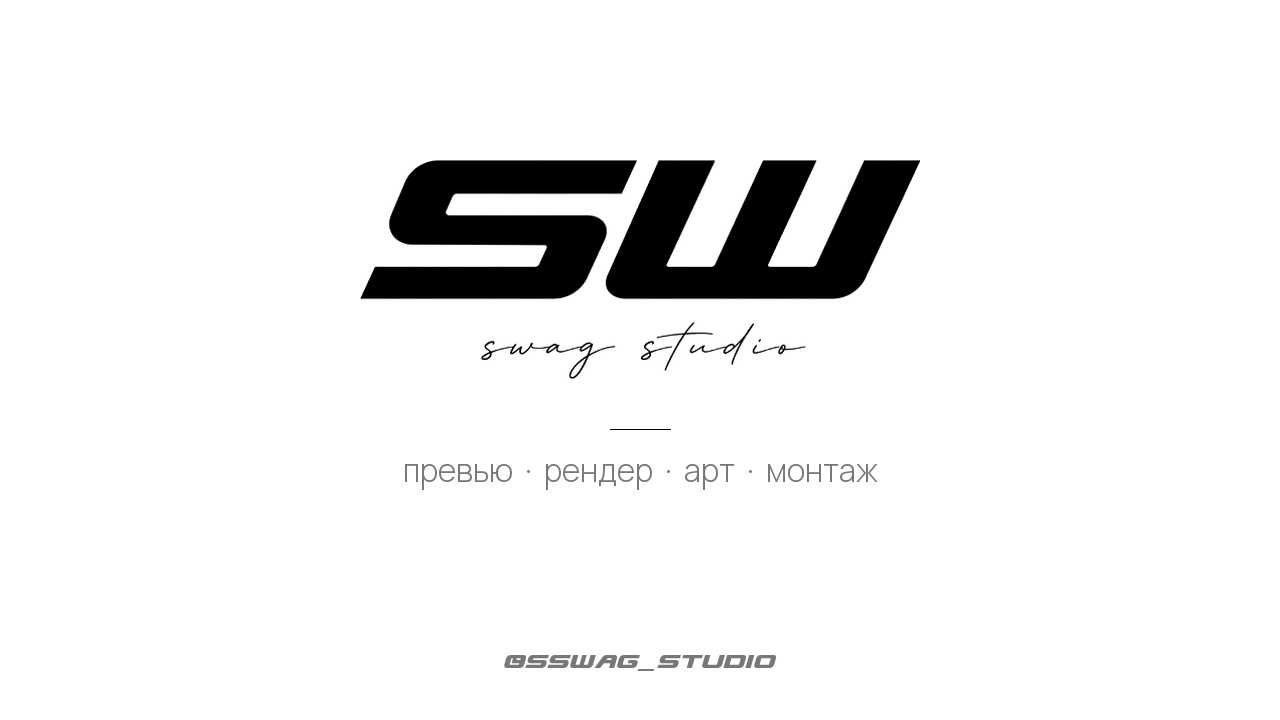
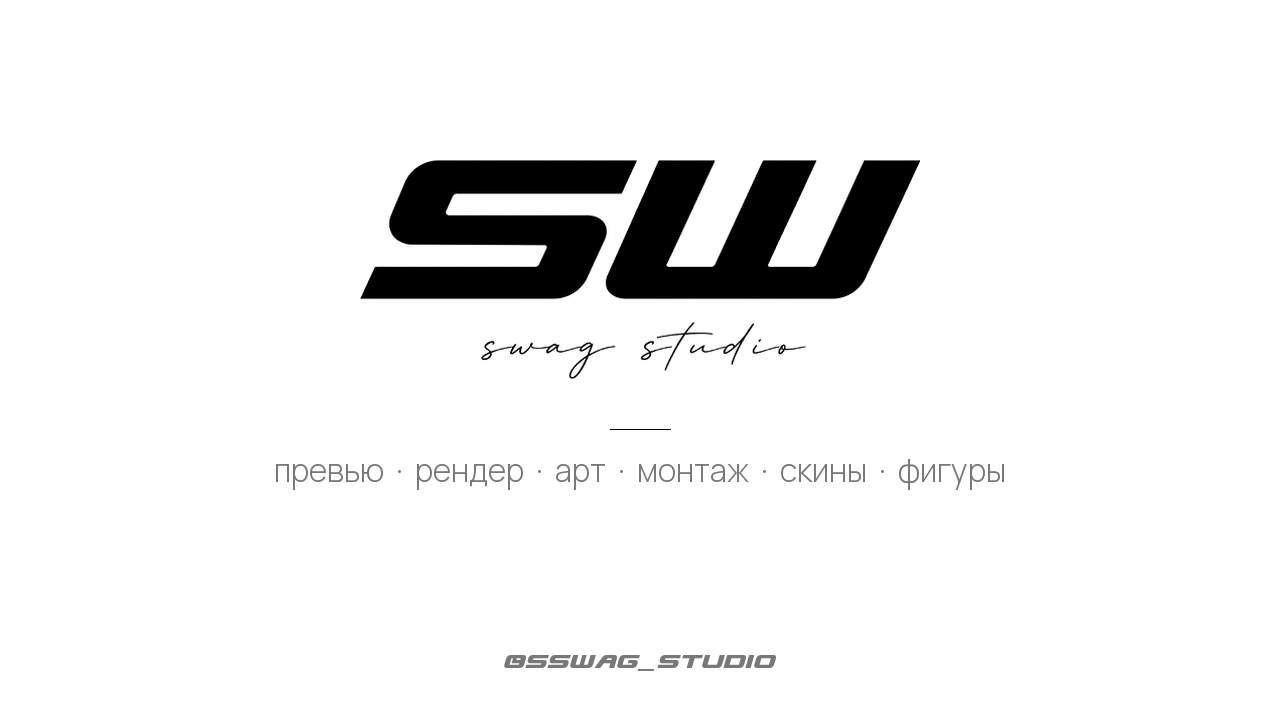
Новые услуги: «Скин» и «Фигура (Figure Mod)»
- кнопки «👕 Скин» и «🗿 Фигура (Figure Mod)» в первом шаге заказа
- описание обеих услуг в разделе «Услуги и цены» и в приветствии
- на главной картинке добавлены «скины · фигуры»

Changed region(s): [[0.2188, 0.6417, 0.7812, 0.6722]]

diff --git a/app/texts.py b/app/texts.py
@@ -6,7 +6,7 @@ from app.keyboards import SERVICES
 
 WELCOME = (
     "<b>Йоу, {name}! Это SWAG Studio</b> 💋\n\n"
-    "Студия дизайна, где ты получишь <b>превью, рендер, арт или монтаж</b> — "
+    "Студия дизайна, где ты получишь <b>превью, рендер, арт, монтаж, скин или фигуру</b> — "
     "быстро, качественно и за адекватную цену.\n\n"
     "Жми <b>«Сделать заказ»</b> — заполнишь короткую анкету, и мы свяжемся с тобой."
 )
@@ -17,6 +17,8 @@ SERVICES_TEXT = (
     "🧊 <b>Рендер</b> — 3D-сцены, персонажи, предметы\n"
     "🎨 <b>Арт</b> — аватарки, баннеры, иллюстрации, оформление каналов\n"
     "🎬 <b>Монтаж</b> — ролики, шортсы, клипы, эдиты\n"
+    "👕 <b>Скин</b> — скин для персонажа по твоей идее или референсу\n"
+    "🗿 <b>Фигура</b> — 3D-модель персонажа для Figure Mod\n"
     "✨ <b>Другое</b> — расскажи идею, придумаем\n\n"
     "💰 Стоимость зависит от сложности и сроков — точную цену назовёт менеджер "
     "после того, как посмотрит заказ."

diff --git a/generate_images.py b/generate_images.py
@@ -26,7 +26,7 @@ WATERMARK = (246, 246, 246)
 
 # key: (заголовок, подзаголовок, шаг заказа или None)
 SCREENS = {
-    "welcome": (None, "превью  ·  рендер  ·  арт  ·  монтаж", None),
+    "welcome": (None, "превью  ·  рендер  ·  арт  ·  монтаж  ·  скины  ·  фигуры", None),
     "services": ("УСЛУГИ", "что мы делаем", None),
     "order_service": ("ЗАКАЗ", "выбери услугу", (1, 5)),
     "order_details": ("ИДЕЯ", "опиши задачу", (2, 5)),

diff --git a/app/keyboards.py b/app/keyboards.py
@@ -7,6 +7,8 @@ SERVICES = {
     "render": "🧊 Рендер",
     "art": "🎨 Арт",
     "montage": "🎬 Монтаж",
+    "skin": "👕 Скин",
+    "figure": "🗿 Фигура (Figure Mod)",
     "other": "✨ Другое",
 }
 
